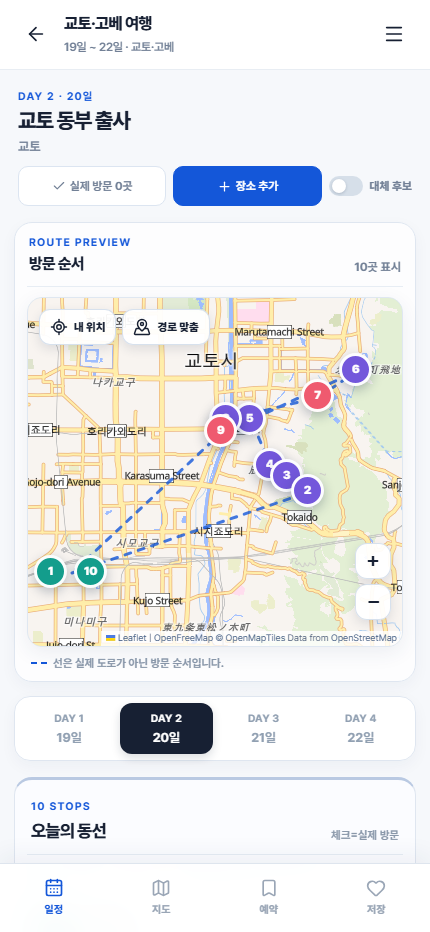
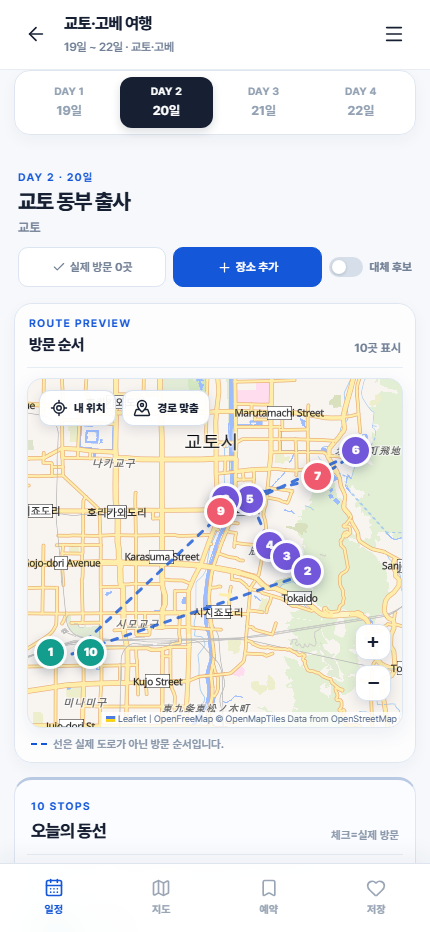
Move day tabs into schedule header

Changed region(s): [[0.0302, 0.0622, 0.9674, 0.809], [0.786, 0.0933, 0.8767, 0.1245], [0.5744, 0.0933, 0.6651, 0.1245]]

diff --git a/src/Prototype.tsx b/src/Prototype.tsx
@@ -554,7 +554,31 @@ function ScheduleView({ activeDay, selectedPlace, selectedPlaceId, showAlternati
   const withDay = (place: Place): MapPlace => ({ ...place, dayNumber: activeDay.dayNumber, dayOfMonth: activeDay.dayOfMonth, dayTitle: activeDay.title });
   const visitedCount = activeDay.places.filter((place) => completedIds.includes(place.id)).length;
   const renderCard = (place: Place) => <PlaceCard place={place} day={activeDay} selected={selectedPlaceId === place.id} completed={completedIds.includes(place.id)} favorite={favoriteIds.includes(place.id)} onSelect={() => onSelectPlace(withDay(place))} onToggleComplete={() => onToggleComplete(place.id)} onToggleFavorite={() => onToggleFavorite(place.id)} />;
-  return <main className="schedule-view"><section className="day-intro"><div className="day-intro-copy"><span className="eyebrow">DAY {activeDay.dayNumber} · {activeDay.dayOfMonth}일</span><h1>{activeDay.title}</h1><p>{activeDay.city}</p></div><div className="day-intro-tools"><button type="button" className={`record-view-button ${actualOnly ? "is-active" : ""}`} aria-pressed={actualOnly} onClick={onToggleActualOnly}><Check size={14} /> {actualOnly ? "전체 일정" : `실제 방문 ${visitedCount}곳`}</button><button type="button" className="record-add-button" onClick={onAddPlace}><Plus size={15} /> 장소 추가</button><label className="alternative-toggle"><input type="checkbox" checked={showAlternatives} onChange={(event) => setShowAlternatives(event.target.checked)} /><span className="toggle-track" /><span>대체 후보</span></label></div></section><TripMap places={primaryPlaces.map(withDay)} routePlaces={primaryPlaces.map(withDay)} selectedPlace={selectedPlace} onSelect={onSelectPlace} userLocation={userLocation} onUserLocation={onUserLocation} /><DayTabs days={trip.days} selectedDay={activeDay.dayOfMonth} onChange={onDayChange} /><section className="itinerary-section" aria-label={`${activeDay.dayOfMonth}일 일정 목록`}><div className="section-heading"><div><span className="eyebrow">{primaryPlaces.length} STOPS</span><h2>{actualOnly ? "실제 방문 기록" : "오늘의 동선"}</h2></div><span className="section-hint">체크=실제 방문</span></div><CategoryLegend /><div className="itinerary-list">{primaryPlaces.map((place, index) => <div key={`${place.id}-item`}>{renderCard(place)}<RouteConnector current={place} next={primaryPlaces[index + 1]} /></div>)}</div></section>{showAlternatives && restaurantAlternatives.length ? <section className="alternatives-section" aria-label="근처 대체 식당"><div className="section-heading"><div><span className="eyebrow">NEARBY RESTAURANTS</span><h2>근처 대체 식당</h2></div><span className="section-hint">기본 동선은 유지</span></div><p className="section-description">예약이 어렵거나 대기가 길 때, 해당 식당 주변에서 바로 바꿔 갈 수 있는 후보입니다.</p><div className="itinerary-list">{restaurantAlternatives.map((place) => <div key={`${place.id}-alternative`}>{renderCard(place)}</div>)}</div></section> : null}{showAlternatives && otherAlternatives.length ? <section className="alternatives-section other-alternatives" aria-label="대체 코스"><div className="section-heading"><div><span className="eyebrow">OPTIONAL ROUTES</span><h2>대체 촬영 코스</h2></div></div><p className="section-description">시간과 운영일을 확인한 뒤 기본 동선 대신 선택하세요.</p><div className="itinerary-list">{otherAlternatives.map((place) => <div key={`${place.id}-alternative`}>{renderCard(place)}</div>)}</div></section> : null}</main>;
+  return (
+    <main className="schedule-view">
+      <DayTabs days={trip.days} selectedDay={activeDay.dayOfMonth} onChange={onDayChange} />
+      <section className="day-intro">
+        <div className="day-intro-copy">
+          <span className="eyebrow">DAY {activeDay.dayNumber} · {activeDay.dayOfMonth}일</span>
+          <h1>{activeDay.title}</h1>
+          <p>{activeDay.city}</p>
+        </div>
+        <div className="day-intro-tools">
+          <button type="button" className={`record-view-button ${actualOnly ? "is-active" : ""}`} aria-pressed={actualOnly} onClick={onToggleActualOnly}><Check size={14} /> {actualOnly ? "전체 일정" : `실제 방문 ${visitedCount}곳`}</button>
+          <button type="button" className="record-add-button" onClick={onAddPlace}><Plus size={15} /> 장소 추가</button>
+          <label className="alternative-toggle"><input type="checkbox" checked={showAlternatives} onChange={(event) => setShowAlternatives(event.target.checked)} /><span className="toggle-track" /><span>대체 후보</span></label>
+        </div>
+      </section>
+      <TripMap places={primaryPlaces.map(withDay)} routePlaces={primaryPlaces.map(withDay)} selectedPlace={selectedPlace} onSelect={onSelectPlace} userLocation={userLocation} onUserLocation={onUserLocation} />
+      <section className="itinerary-section" aria-label={`${activeDay.dayOfMonth}일 일정 목록`}>
+        <div className="section-heading"><div><span className="eyebrow">{primaryPlaces.length} STOPS</span><h2>{actualOnly ? "실제 방문 기록" : "오늘의 동선"}</h2></div><span className="section-hint">체크=실제 방문</span></div>
+        <CategoryLegend />
+        <div className="itinerary-list">{primaryPlaces.map((place, index) => <div key={`${place.id}-item`}>{renderCard(place)}<RouteConnector current={place} next={primaryPlaces[index + 1]} /></div>)}</div>
+      </section>
+      {showAlternatives && restaurantAlternatives.length ? <section className="alternatives-section" aria-label="근처 대체 식당"><div className="section-heading"><div><span className="eyebrow">NEARBY RESTAURANTS</span><h2>근처 대체 식당</h2></div><span className="section-hint">기본 동선은 유지</span></div><p className="section-description">예약이 어렵거나 대기가 길 때, 해당 식당 주변에서 바로 바꿔 갈 수 있는 후보입니다.</p><div className="itinerary-list">{restaurantAlternatives.map((place) => <div key={`${place.id}-alternative`}>{renderCard(place)}</div>)}</div></section> : null}
+      {showAlternatives && otherAlternatives.length ? <section className="alternatives-section other-alternatives" aria-label="대체 코스"><div className="section-heading"><div><span className="eyebrow">OPTIONAL ROUTES</span><h2>대체 촬영 코스</h2></div></div><p className="section-description">시간과 운영일을 확인한 뒤 기본 동선 대신 선택하세요.</p><div className="itinerary-list">{otherAlternatives.map((place) => <div key={`${place.id}-alternative`}>{renderCard(place)}</div>)}</div></section> : null}
+    </main>
+  );
 }
 
 function AllMapView({ allPlaces, selectedPlace, onSelectPlace, onUserLocation, userLocation }: { allPlaces: MapPlace[]; selectedPlace: Place | null; onSelectPlace: (place: MapPlace) => void; onUserLocation: (location: Coordinate) => void; userLocation: Coordinate | null }) {

diff --git a/README.md b/README.md
@@ -200,7 +200,7 @@ Notion 토큰은 프론트 코드에 포함하지 않습니다. 여행 데이터
     <td width="50%" valign="top">
       <img src="./public/assets/readme/itinerary-day2.png" alt="DAY 2 일정과 지도 화면" width="220" />
       <br /><strong>02 · 날짜별 일정·지도</strong>
-      <br />DAY 1~4 탭, 한글 지도, 방문 순서 마커, 실제 방문 체크, 장소 추가를 한 화면에서 사용합니다.
+      <br />헤더 아래 DAY 1~4 탭, 한글 지도, 방문 순서 마커, 실제 방문 체크, 장소 추가를 한 화면에서 사용합니다.
     </td>
   </tr>
   <tr>
@@ -222,7 +222,7 @@ Notion 토큰은 프론트 코드에 포함하지 않습니다. 여행 데이터
 | 화면 | 주요 기능 |
 | --- | --- |
 | 허브 | 여행지별 진입점, 여행 기간·지역 요약 |
-| 일정 | 날짜 탭, 일정 제목, 실제 방문 수, 대체 후보 토글, 장소 추가 |
+| 일정 | 헤더 아래 고정형 DAY 1~4 탭, 일정 제목, 실제 방문 수, 대체 후보 토글, 장소 추가 |
 | 지도 | 한글 지도, 방문 순서 마커, 겹치는 좌표 마커 분리, 내 위치·경로 맞춤 |
 | 장소 카드 | 카테고리 아이콘·색상, 대표 이미지, 영업시간, 휴무일, 가격, 체크·즐겨찾기 |
 | 상세 시트 | 주소, Google Maps·길찾기, 예약 링크, 메뉴 원문·번역, 음식 사진, 대체 식당 |
